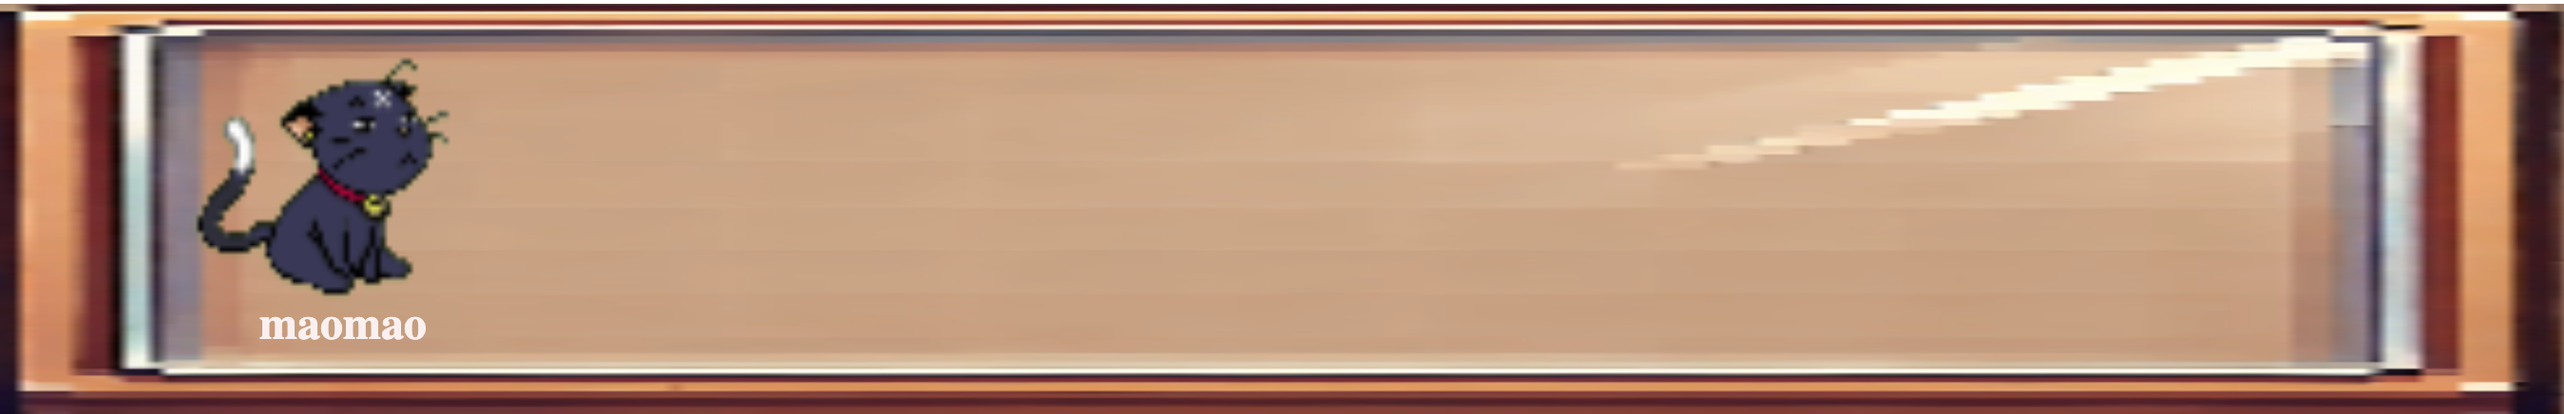
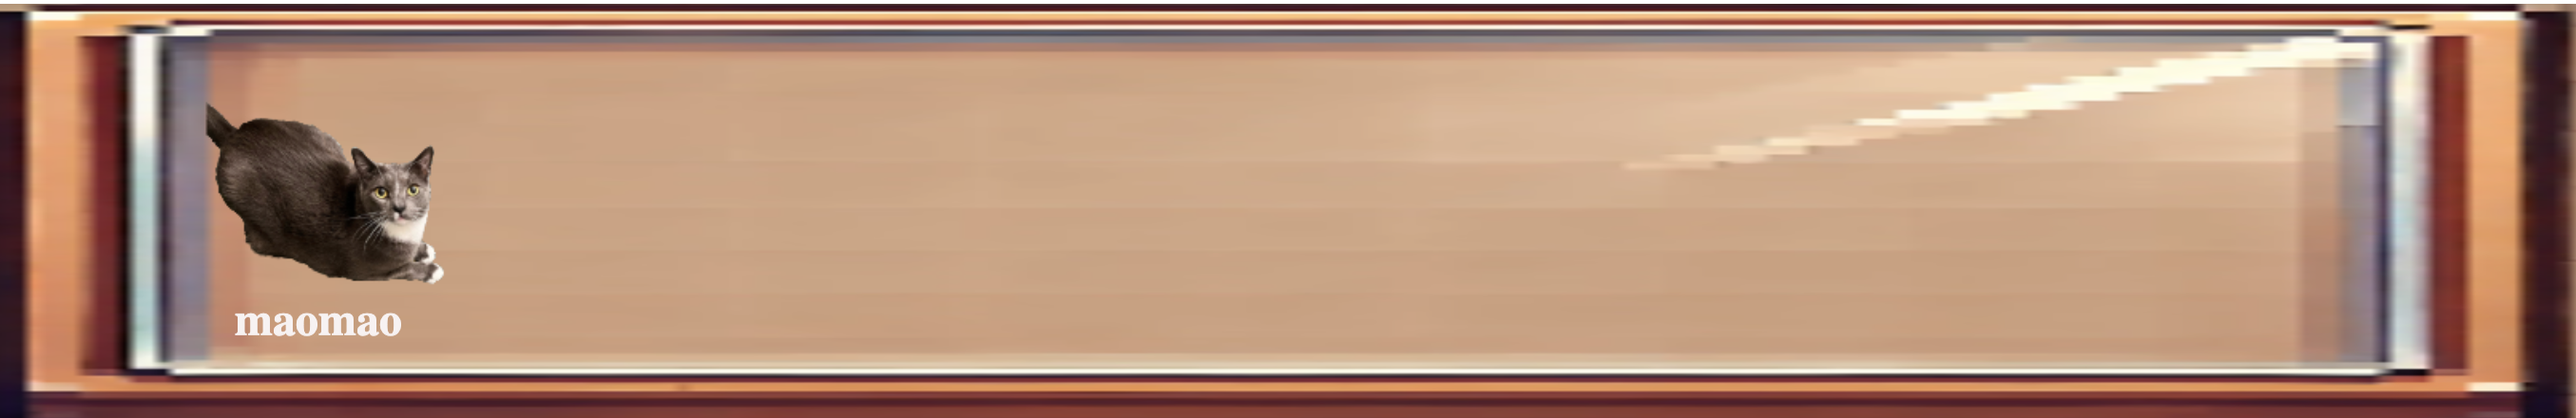
update10bySiyu

Changed region(s): [[0.0, 0.0, 1.0, 1.0], [0.1557, 0.1491, 0.1868, 0.1789]]

diff --git a/finalproject/gameevent.py b/finalproject/gameevent.py
@@ -26,16 +26,16 @@ def event(gameversion, gameevent, player, x, y):
     bgpic1 = pygame.image.load("picture/map1.jpg")
     original_width, original_height = bgpic1.get_width(), bgpic1.get_height()
     bgpic1 = pygame.transform.scale(bgpic1, (width, height))
-   
-    dog = pygame.image.load("picture/dog.ico")
-    dog = pygame.transform.scale(dog, (30*scale_width, 30*scale_height))
+
+    dog = pygame.image.load("picture/dog.png")
+    dog = pygame.transform.scale(dog, (45*scale_width, 45*scale_height))
     dog_rect = dog.get_rect()
-    dog_rect.x, dog_rect.y = 270*scale_width, 205*scale_height
+    dog_rect.x, dog_rect.y = 260*scale_width, 190*scale_height
 
     cat = pygame.image.load("picture/cat.png")
-    cat = pygame.transform.scale(cat, (40*scale_width, 40*scale_height))
+    cat = pygame.transform.scale(cat, (40*scale_width, 60*scale_height))
     cat_rect = cat.get_rect()
-    cat_rect.x, cat_rect.y = 600*scale_width, 430*scale_height
+    cat_rect.x, cat_rect.y = 610*scale_width, 430*scale_height
     
     npc = [{"name": "dog", "image": dog, "rect": dog_rect},
            {"name": "cat", "image": cat, "rect": cat_rect},
@@ -141,7 +141,7 @@ def event(gameversion, gameevent, player, x, y):
             screen.blit(box1, (150, 450))
             screen.blit(text3, (320, 470))
             screen.blit(text4, (830, 540))
-            if keys[pygame.K_LSHIFT]:
+            if keys[pygame.K_LSHIFT] or keys[pygame.K_RSHIFT]:
                     clueroom.clueroom(gameversion, player, x, y)
             if keys[pygame.K_RETURN]:
                 if gameversion == "game":
@@ -154,7 +154,7 @@ def event(gameversion, gameevent, player, x, y):
             screen.blit(box1, (150, 450))
             screen.blit(text5, (320, 470))
             screen.blit(text4, (830, 540))
-            if keys[pygame.K_LSHIFT]:
+            if keys[pygame.K_LSHIFT] or keys[pygame.K_RSHIFT]:
                     clueroom.clueroom(gameversion, player, x, y)
             if keys[pygame.K_RETURN]:
                 if gameversion == "game":
@@ -216,7 +216,7 @@ def event(gameversion, gameevent, player, x, y):
                         print(globalv.get_clues)
                         clue_now["state"] = True
                         print(clue_now)
-                    if keys[pygame.K_LSHIFT]:
+                    if keys[pygame.K_LSHIFT] or keys[pygame.K_RSHIFT]:
                         clueroom.clueroom(gameversion, player, x, y)
                     if keys[pygame.K_RETURN]:
                         question_now["state"] = True
@@ -245,7 +245,7 @@ def event(gameversion, gameevent, player, x, y):
                 print(globalv.get_clues)
                 clue_now["state"] = True
                 print(clue_now)
-            if keys[pygame.K_LSHIFT]:
+            if keys[pygame.K_LSHIFT] or keys[pygame.K_RSHIFT]:
                 clueroom.clueroom(gameversion, player, x, y)
             if keys[pygame.K_RETURN]:
                 if gameversion == "game":

diff --git a/finalproject/dialogue.py b/finalproject/dialogue.py
@@ -18,15 +18,15 @@ def dialogue(player, x, y, npcname):
     scale_width = width / original_width
     scale_height = height / original_height
 
-    dog = pygame.image.load("picture/dog.ico")
-    dog = pygame.transform.scale(dog, (30*scale_width, 30*scale_height))
+    dog = pygame.image.load("picture/dog.png")
+    dog = pygame.transform.scale(dog, (45*scale_width, 45*scale_height))
     dog_rect = dog.get_rect()
-    dog_rect.x, dog_rect.y = 270*scale_width, 205*scale_height
+    dog_rect.x, dog_rect.y = 260*scale_width, 190*scale_height
 
     cat = pygame.image.load("picture/cat.png")
-    cat = pygame.transform.scale(cat, (40*scale_width, 40*scale_height))
+    cat = pygame.transform.scale(cat, (40*scale_width, 60*scale_height))
     cat_rect = cat.get_rect()
-    cat_rect.x, cat_rect.y = 600*scale_width, 430*scale_height
+    cat_rect.x, cat_rect.y = 610*scale_width, 430*scale_height
     npc = [{"name": "dog", "image": dog, "rect": dog_rect},
            {"name": "cat", "image": cat, "rect": cat_rect},
             ]

diff --git a/finalproject/game.py b/finalproject/game.py
@@ -24,13 +24,13 @@ def game(player, x, y):
     scale_width = width / original_width
     scale_height = height / original_height
     
-    dog = pygame.image.load("picture/dog.ico")
-    dog = pygame.transform.scale(dog, (30*scale_width, 30*scale_height))
+    dog = pygame.image.load("picture/dog.png")
+    dog = pygame.transform.scale(dog, (45*scale_width, 45*scale_height))
     dog_rect = dog.get_rect()
-    dog_rect.x, dog_rect.y = 270*scale_width, 205*scale_height
+    dog_rect.x, dog_rect.y = 260*scale_width, 190*scale_height
 
     cat = pygame.image.load("picture/cat.png")
-    cat = pygame.transform.scale(cat, (40*scale_width, 40*scale_height))
+    cat = pygame.transform.scale(cat, (40*scale_width, 60*scale_height))
     cat_rect = cat.get_rect()
     cat_rect.x, cat_rect.y = 600*scale_width, 430*scale_height
 

diff --git a/finalproject/battle1.py b/finalproject/battle1.py
@@ -36,7 +36,7 @@ def battle(gameversion, player, x, y):
     bossbullet_rect = bossbullet.get_rect()
     boss_bullet = []
 
-    dog = pygame.image.load("picture/dog.ico")
+    dog = pygame.image.load("picture/dog.png")
     dog = pygame.transform.scale(dog, (100, 100))
     dog_rect = dog.get_rect()
     dog_rect.x, dog_rect.y = 750, 680
@@ -169,7 +169,7 @@ def battle(gameversion, player, x, y):
             pygame.draw.rect(screen, (255, 255, 255), return_button)
             screen.blit(text5, (return_button.x + 75, return_button.y + 12))
         
-        if boss_health <= 90:
+        if boss_health <= 0:
             screen.fill((0, 0, 0))
             win = pygame.image.load("picture/win.jpg")
             win = pygame.transform.scale(win, (1000, 500))

diff --git a/finalproject/petroom.py b/finalproject/petroom.py
@@ -19,13 +19,13 @@ def petroom(gameversion, x, y, player):
     scale_width = width / original_width
     scale_height = height / original_height
 
-    dog = pygame.image.load("picture/dog.ico")
-    dog = pygame.transform.scale(dog, (160*scale_width, 160*scale_height))
+    dog = pygame.image.load("picture/dog.png")
+    dog = pygame.transform.scale(dog, (250*scale_width, 250*scale_height))
     dog_rect = dog.get_rect()
     dog_rect.x, dog_rect.y = width/2, height/2
 
     cat = pygame.image.load("picture/cat.png")
-    cat = pygame.transform.scale(cat, (150*scale_width, 150*scale_height))
+    cat = pygame.transform.scale(cat, (300*scale_width, 300*scale_height))
     cat_rect = cat.get_rect()
     cat_rect.x, cat_rect.y = width/2, height/2
 

diff --git a/finalproject/battle2.py b/finalproject/battle2.py
@@ -30,7 +30,7 @@ def battle(gameversion, player, x, y):
     bossbullet_rect = bossbullet.get_rect()
     boss_bullet = []
 
-    dog = pygame.image.load("picture/dog.ico")
+    dog = pygame.image.load("picture/dog.png")
     dog = pygame.transform.scale(dog, (100, 100))
     dog_rect = dog.get_rect()
     dog_rect.x, dog_rect.y = 750, 680
@@ -158,7 +158,7 @@ def battle(gameversion, player, x, y):
             screen.blit(text4, (try_button.x + 55, try_button.y + 12))
 
         
-        if boss_health <= 90:
+        if boss_health <= 0:
             flag_win = True
             screen.fill((0, 0, 0))
             win = pygame.image.load("picture/win.jpg")

diff --git a/finalproject/chooseplayer.py b/finalproject/chooseplayer.py
@@ -73,7 +73,7 @@ def chooseplayer():
                 for i in range(len(player_rect)):
                     if player_rect[i].collidepoint(event.pos):
                         player = "hero" + str(i)
-                        game.game(player, 42, 672)
+                        game.game(player, 1100, 30)
 
         pygame.display.update()
         clock.tick(60)
